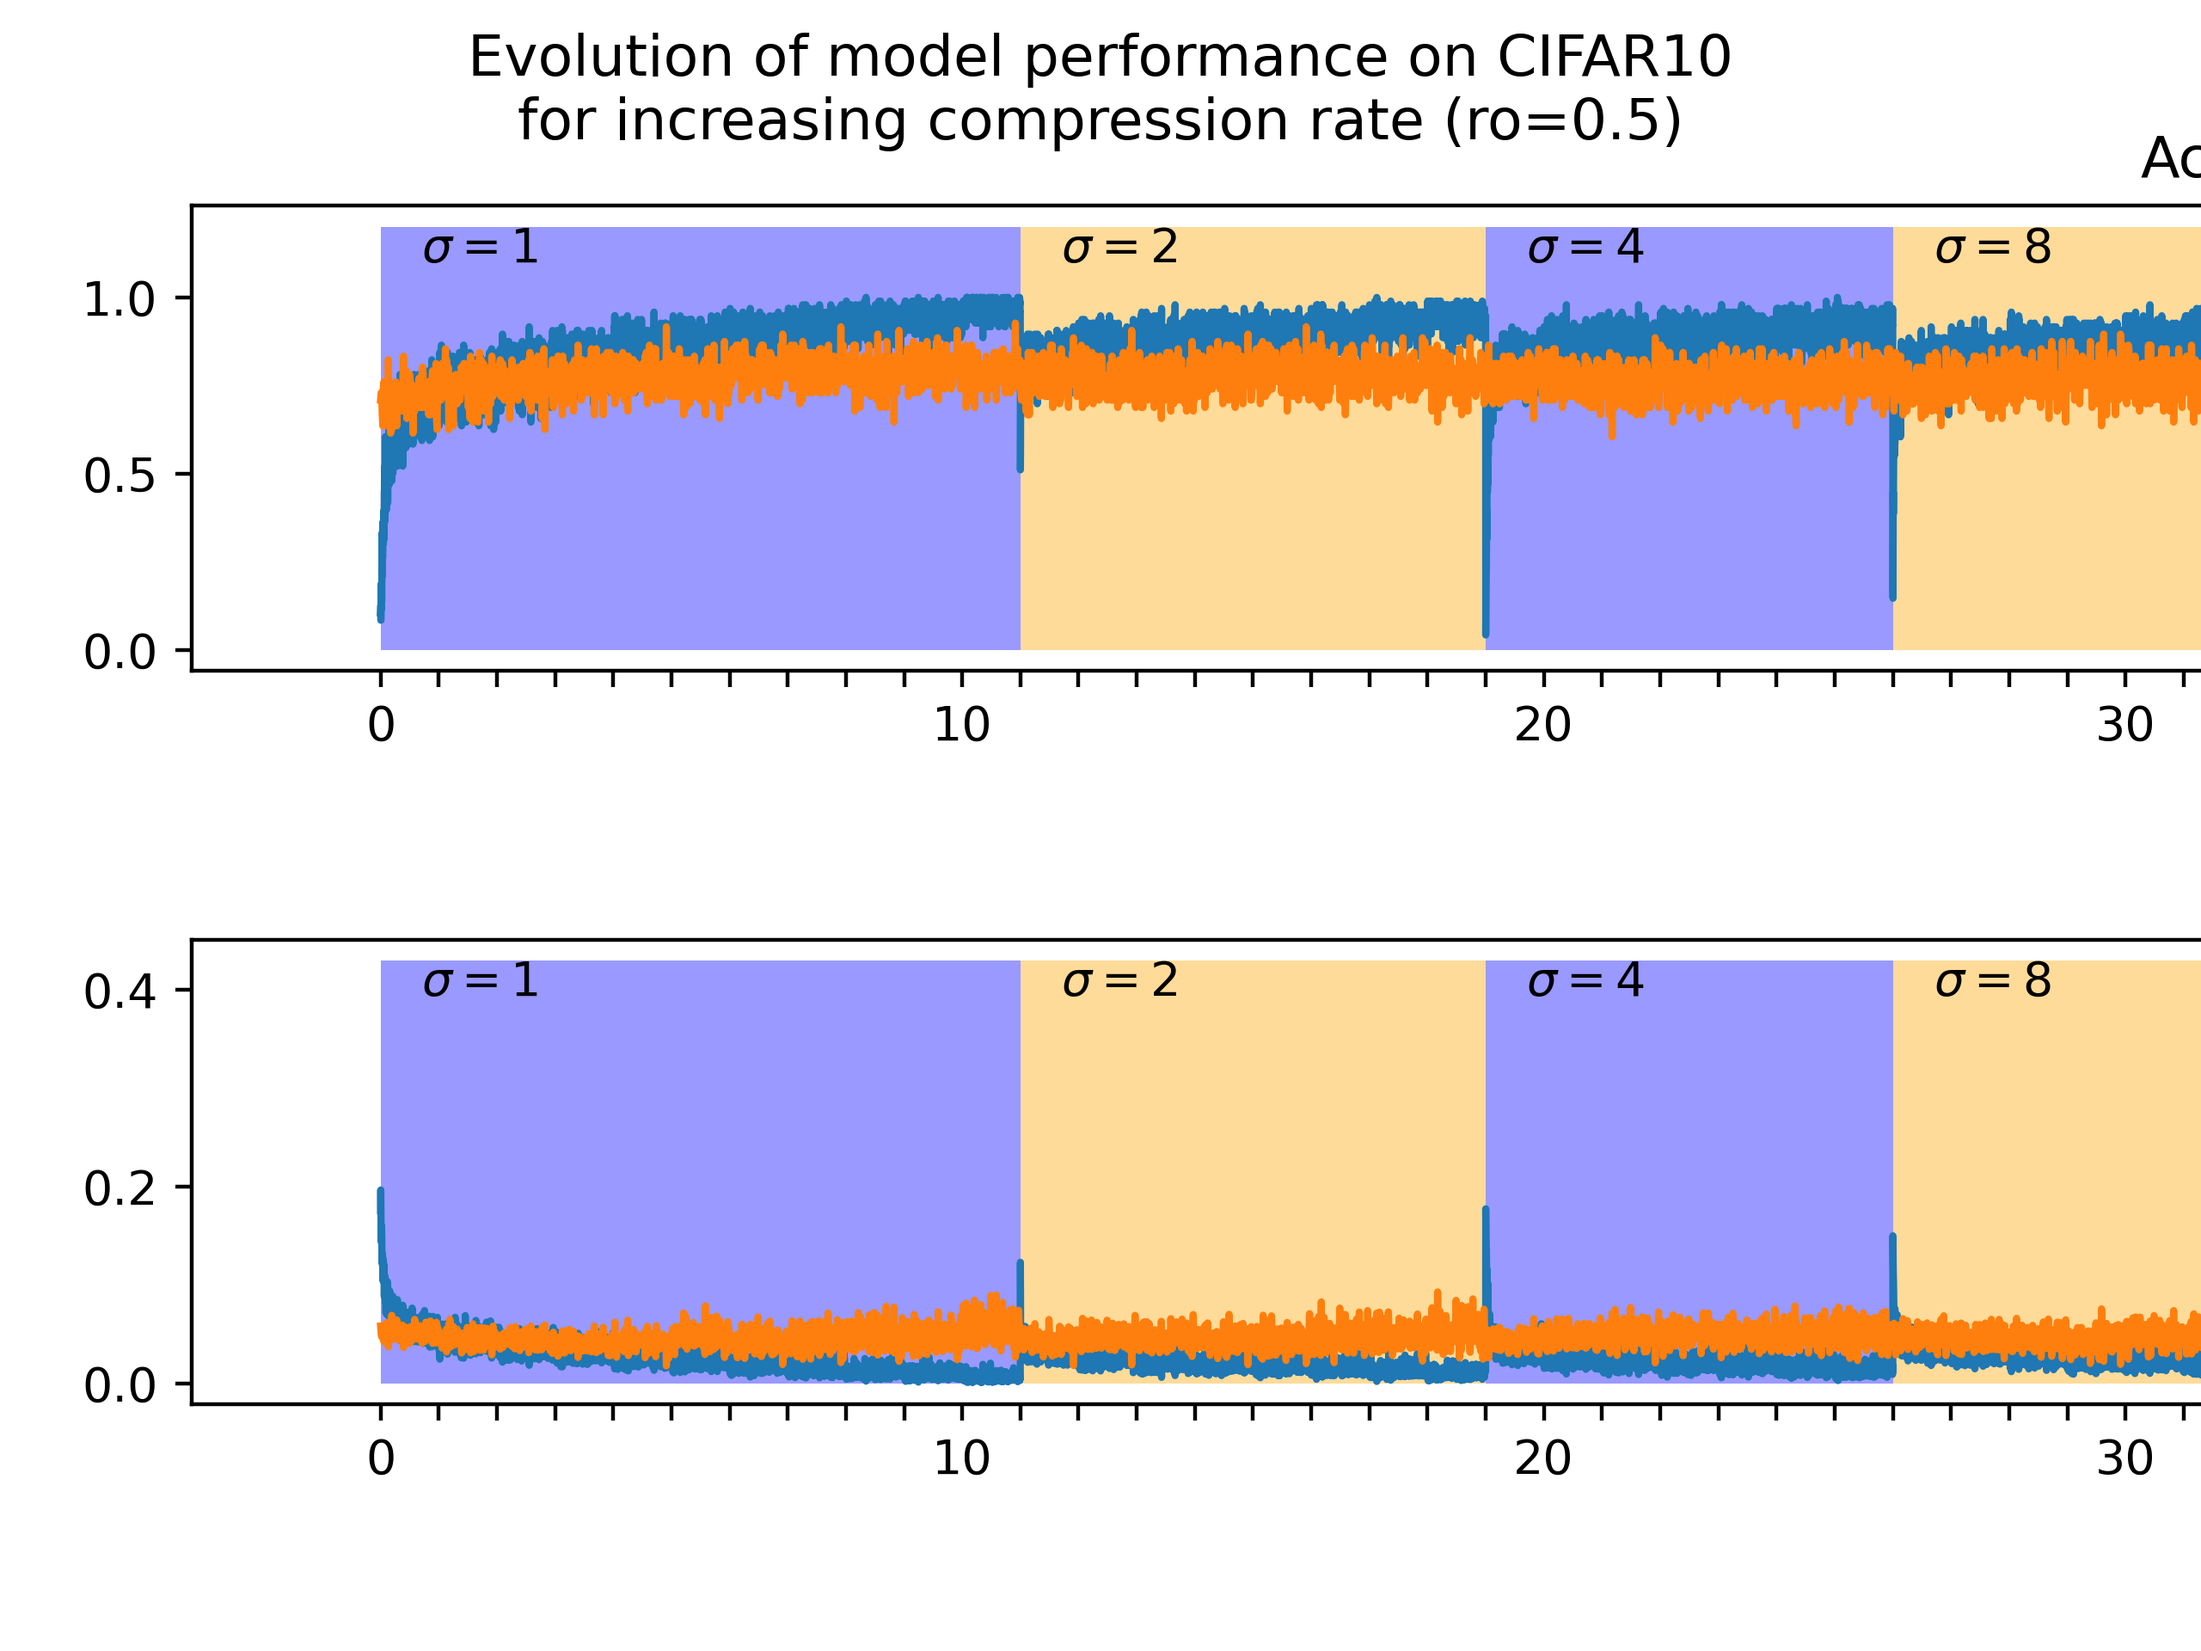
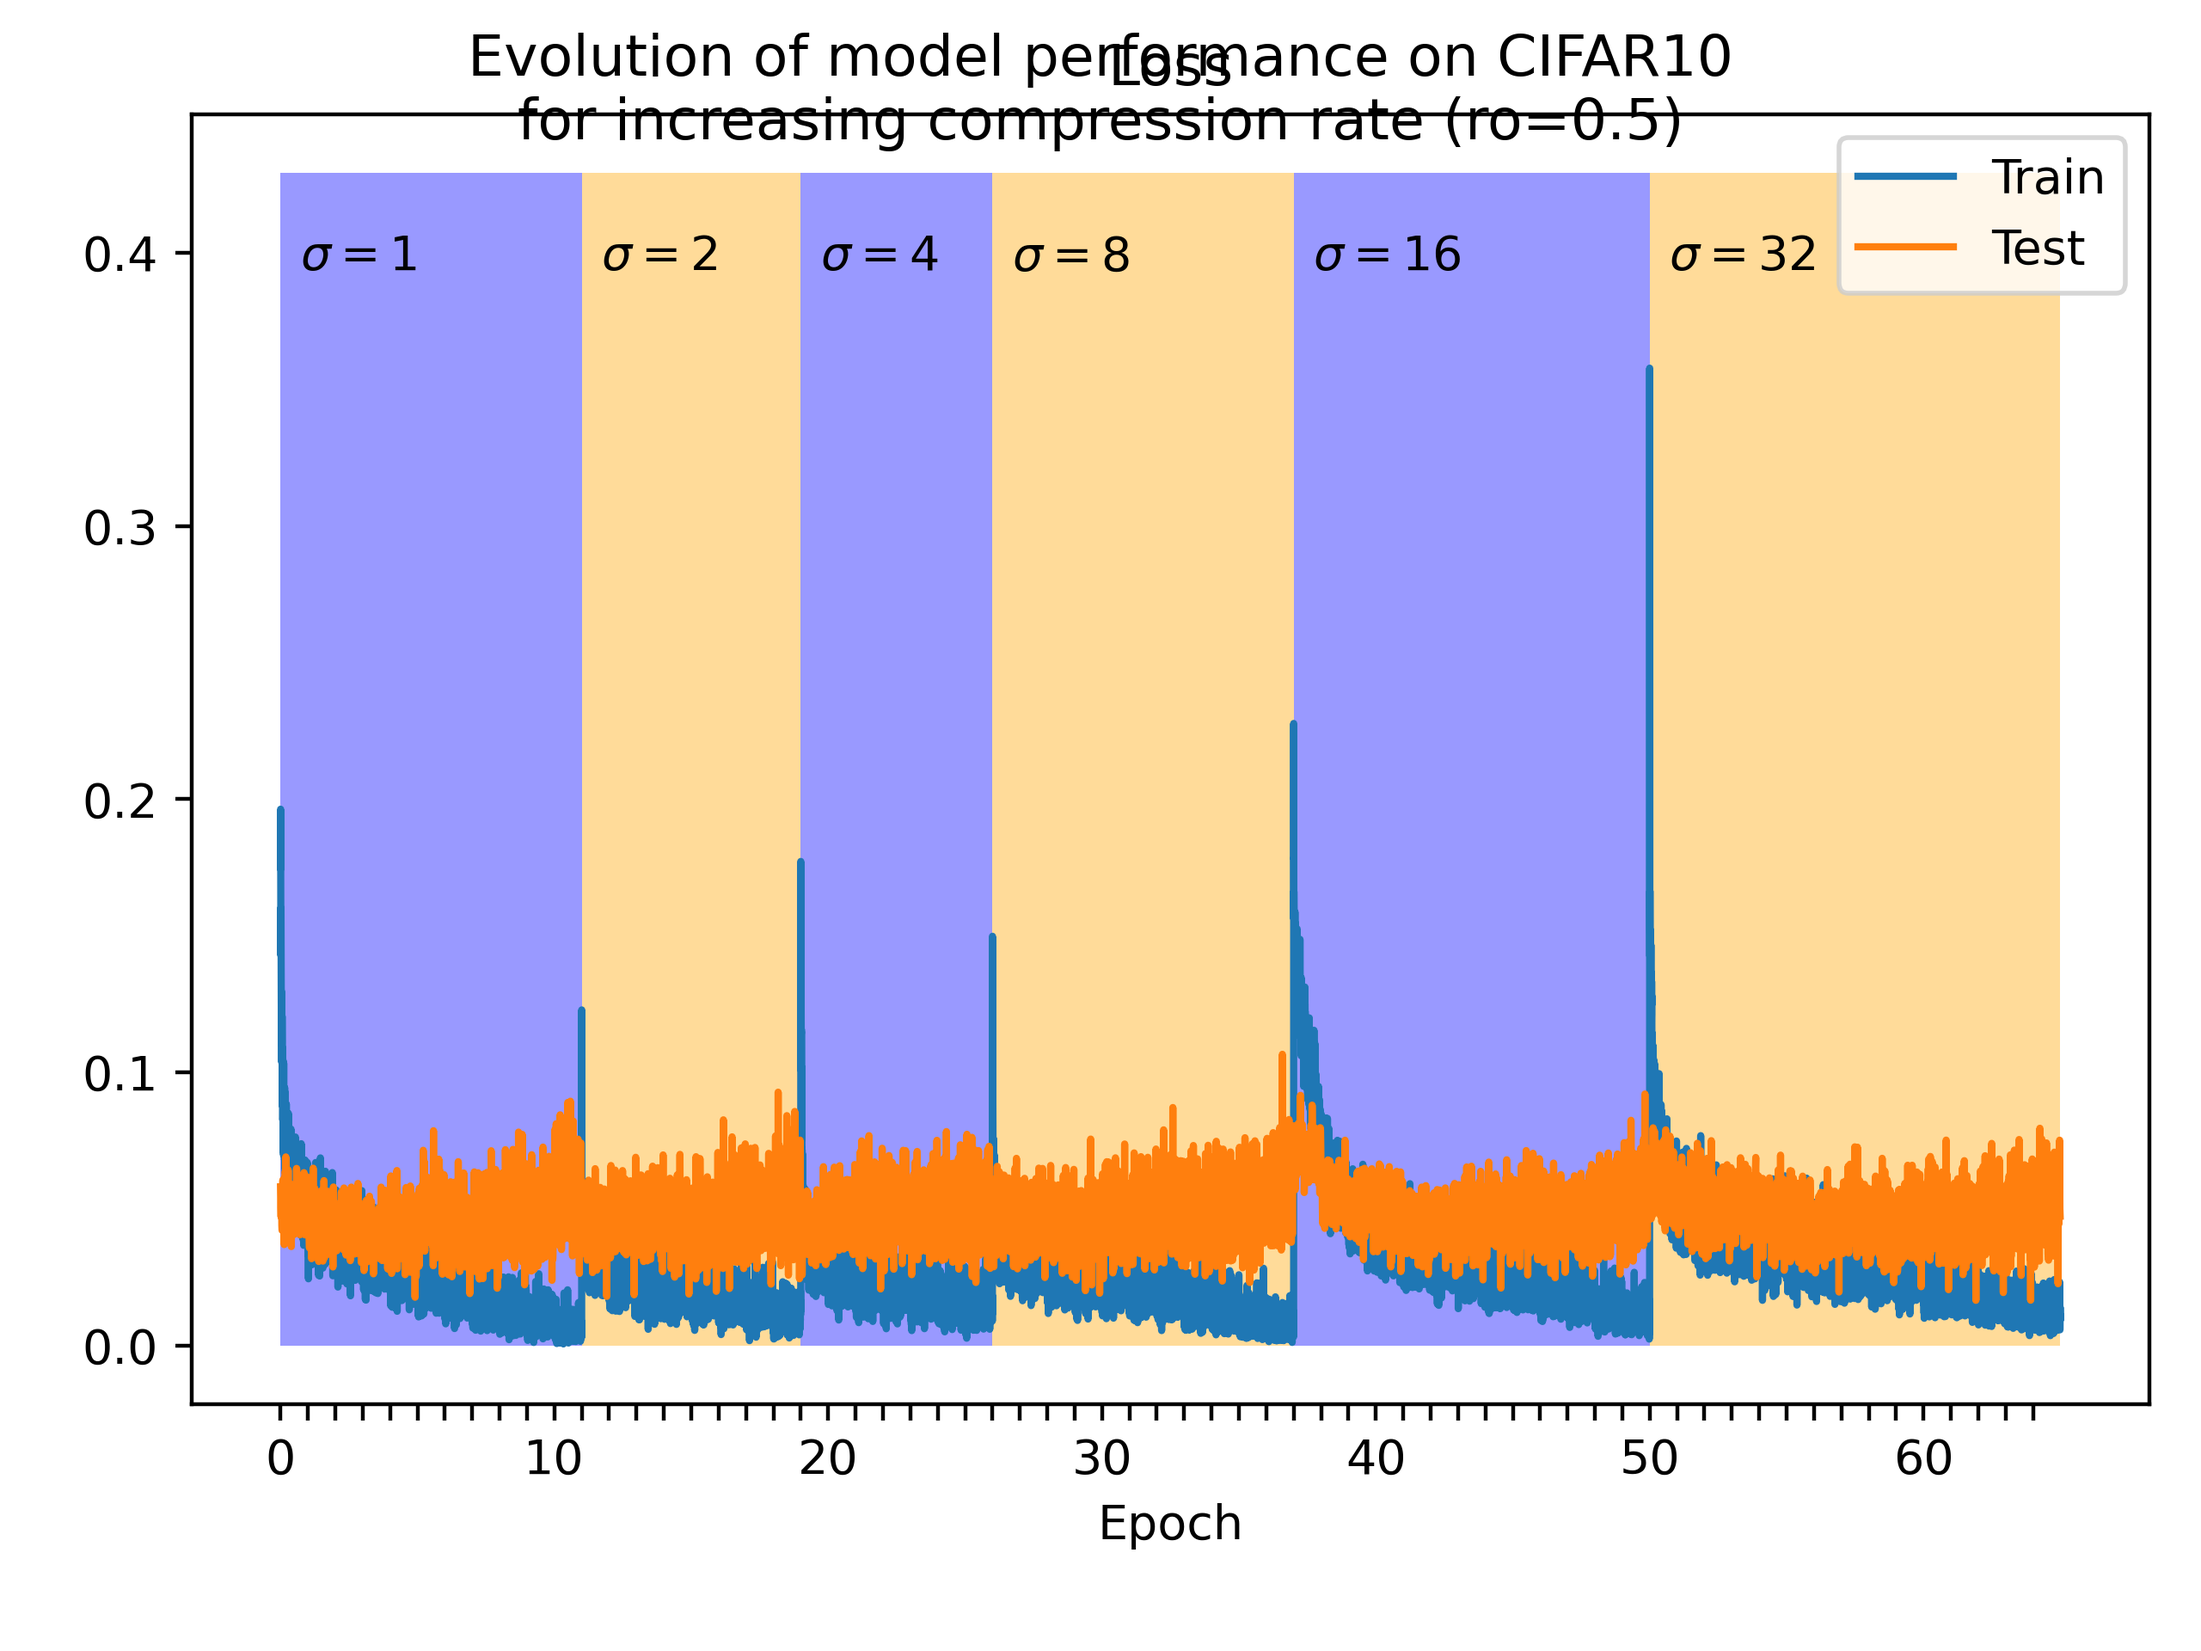
enum

diff --git a/src/viz.py b/src/viz.py
@@ -56,7 +56,7 @@ def visualize_loss_acc(opt, allLosses, allAccs, epochLengths, compRates = None):
 		ax.set_xticklabels([str(x) if x % 10 == 0 else "" for x in np.arange(xPrev)])
 		ax.set_xlabel("Epoch")
 
-	fig.tight_layout(rect=[0, 0.03, 1, 1.95])
+	fig.tight_layout(rect=[0, 0.03, 1, 0.85])
 	plt.suptitle("Evolution of model performance on " + opt.dsName.upper() + "\nfor increasing compression rate (ro="+str(opt.ro)+")")
 
 	saveFig(opt, "accLossThroughEpochs");
